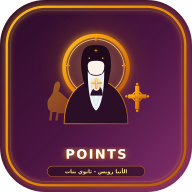
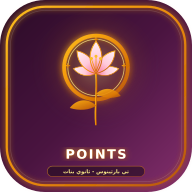
Add files via upload

Changed region(s): [[0.2188, 0.2188, 0.7812, 0.6562], [0.3125, 0.875, 0.6875, 0.9375]]

diff --git a/App.tsx b/App.tsx
@@ -2127,7 +2127,7 @@ const App = () => {
                             : [],
                     }));
                     setStudents(importedStudents);
-                    showToast('تم استعادة بيانات بنات الأنبا رويس بنجاح.');
+                    showToast('تم استعادة بيانات شابات تي بارثينوس بنجاح.');
                 }
 
                 if (data.admins !== undefined) {
@@ -2721,7 +2721,7 @@ const App = () => {
                 <header className="flex justify-between items-center mb-6 pb-4 border-b border-indigo-800/50">
                     <div>
                         <h1 className="text-3xl md:text-4xl font-bold text-amber-400 tracking-wider">Points ثانوي بنات</h1>
-                        <p className="text-lg text-indigo-300 mt-1">اجتماع الأنبا رويس - كنيسة مارمينا</p>
+                        <p className="text-lg text-indigo-300 mt-1">تي بارثينوس لشابات ثانوي - كنيسة مارمينا مدينة الأحلام</p>
                     </div>
                     <div className="flex items-center gap-2 md:gap-4">
                         <button
@@ -2865,7 +2865,7 @@ const App = () => {
                     <div className="mb-6 bg-indigo-900/70 p-1.5 rounded-xl flex items-center gap-2 border border-indigo-800/50 overflow-x-auto">
                         <button onClick={() => setActiveView('students')} className={`flex-1 min-w-[120px] text-center rounded-lg py-2 font-bold flex items-center justify-center gap-2 transition-colors ${activeView === 'students' ? 'bg-indigo-700 text-amber-400' : 'text-indigo-300 hover:bg-indigo-800/50'}`}>
                             <UserGroupIcon className="w-5 h-5" />
-                            <span className="whitespace-nowrap">بنات الأنبا رويس ({students.length})</span>
+                            <span className="whitespace-nowrap">شابات تي بارثينوس ({students.length})</span>
                         </button>
                          <button onClick={() => setActiveView('leaderboard')} className={`flex-1 min-w-[120px] text-center rounded-lg py-2 font-bold flex items-center justify-center gap-2 transition-colors ${activeView === 'leaderboard' ? 'bg-indigo-700 text-amber-400' : 'text-indigo-300 hover:bg-indigo-800/50'}`}>
                              <TrophyIcon className="w-5 h-5" />
@@ -3706,7 +3706,7 @@ const App = () => {
                                 <div className="bg-indigo-950/40 border border-indigo-800/50 rounded-2xl p-12 text-center text-indigo-300 space-y-3">
                                     <div className="text-4xl">🎖✨</div>
                                     <h4 className="text-lg font-bold text-white">لا توجد تنبيهات تطابق البحث أو الفلتر المحدد</h4>
-                                    <p className="text-xs text-indigo-400">ستظهر هنا أي أوسمة جديدة تحصل عليها البنات تلقائياً لمتابعتها وإضافة نقاطها بضغطة زر.</p>
+                                    <p className="text-xs text-indigo-400">ستظهر هنا أي أوسمة جديدة تحصل عليها الشابات تلقائياً لمتابعتها وإضافة نقاطها بضغطة زر.</p>
                                 </div>
                             ) : (
                                 <div className="grid grid-cols-1 md:grid-cols-2 gap-4">

diff --git a/index.html b/index.html
@@ -13,7 +13,7 @@
     <link rel="icon" type="image/svg+xml" href="%BASE_URL%icon.svg" />
     <link rel="icon" type="image/png" href="%BASE_URL%icon-192.png" sizes="192x192" />
     <link rel="apple-touch-icon" href="%BASE_URL%icon-512.png" />
-    <title>Points ثانوي بنات - اجتماع الأنبا رويس</title>
+    <title>Points ثانوي بنات - تي بارثينوس</title>
     <script src="https://cdn.tailwindcss.com"></script>
     <script>
       // ألوان نسخة البنات: درجات indigo بقت بنفسجي وردي (plum)، ودرجات amber بقت وردي (rose)

diff --git a/README.md b/README.md
@@ -1,4 +1,4 @@
-# Points ثانوي بنات — اجتماع الأنبا رويس
+# Points ثانوي بنات — تي بارثينوس
 
 تطبيق React/Vite لتسجيل الحضور والنقاط، مع Firebase Firestore، قارئ باركود، وواجهة PWA.
 
